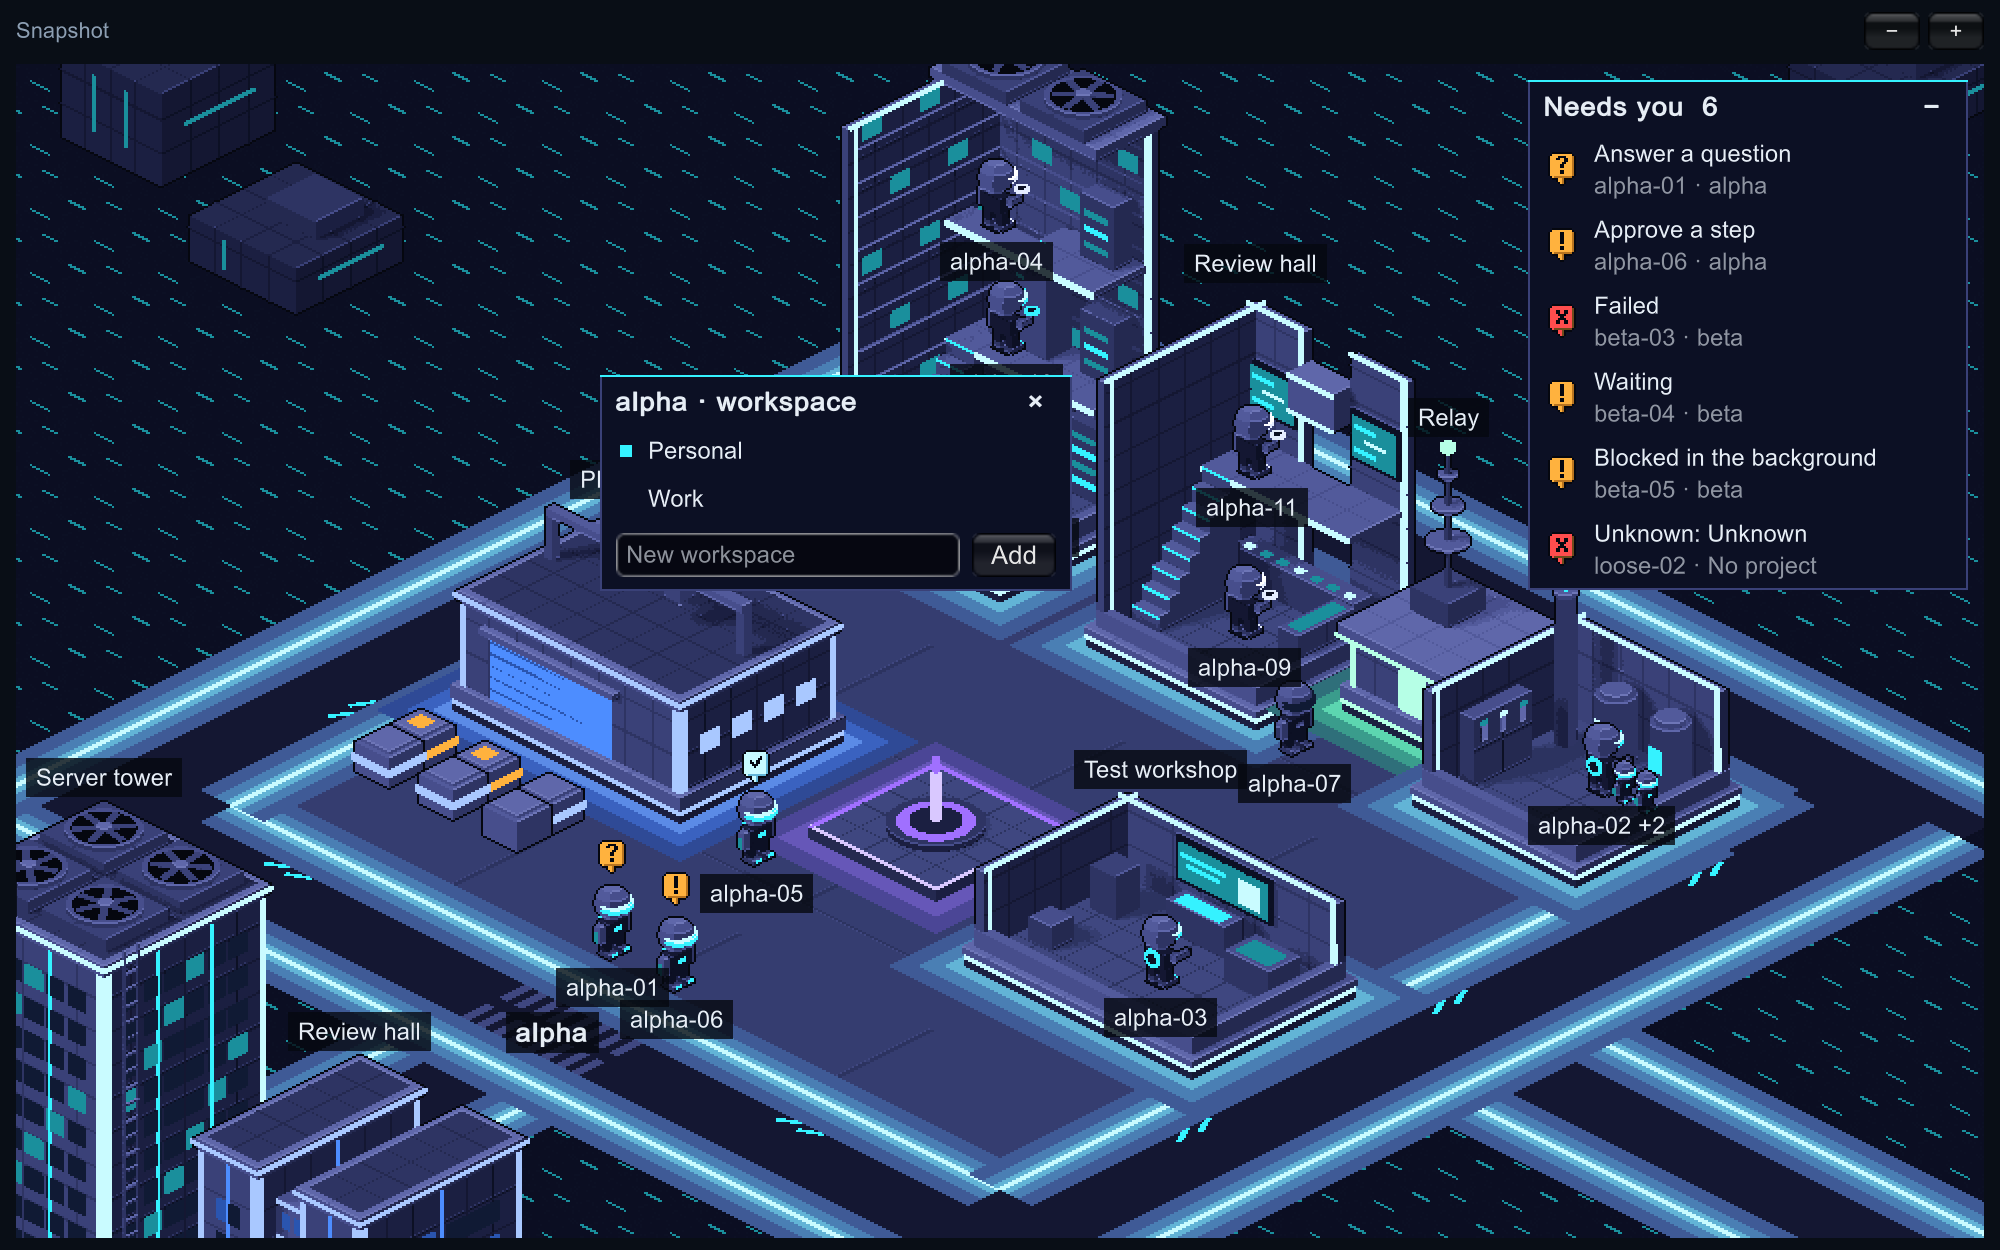
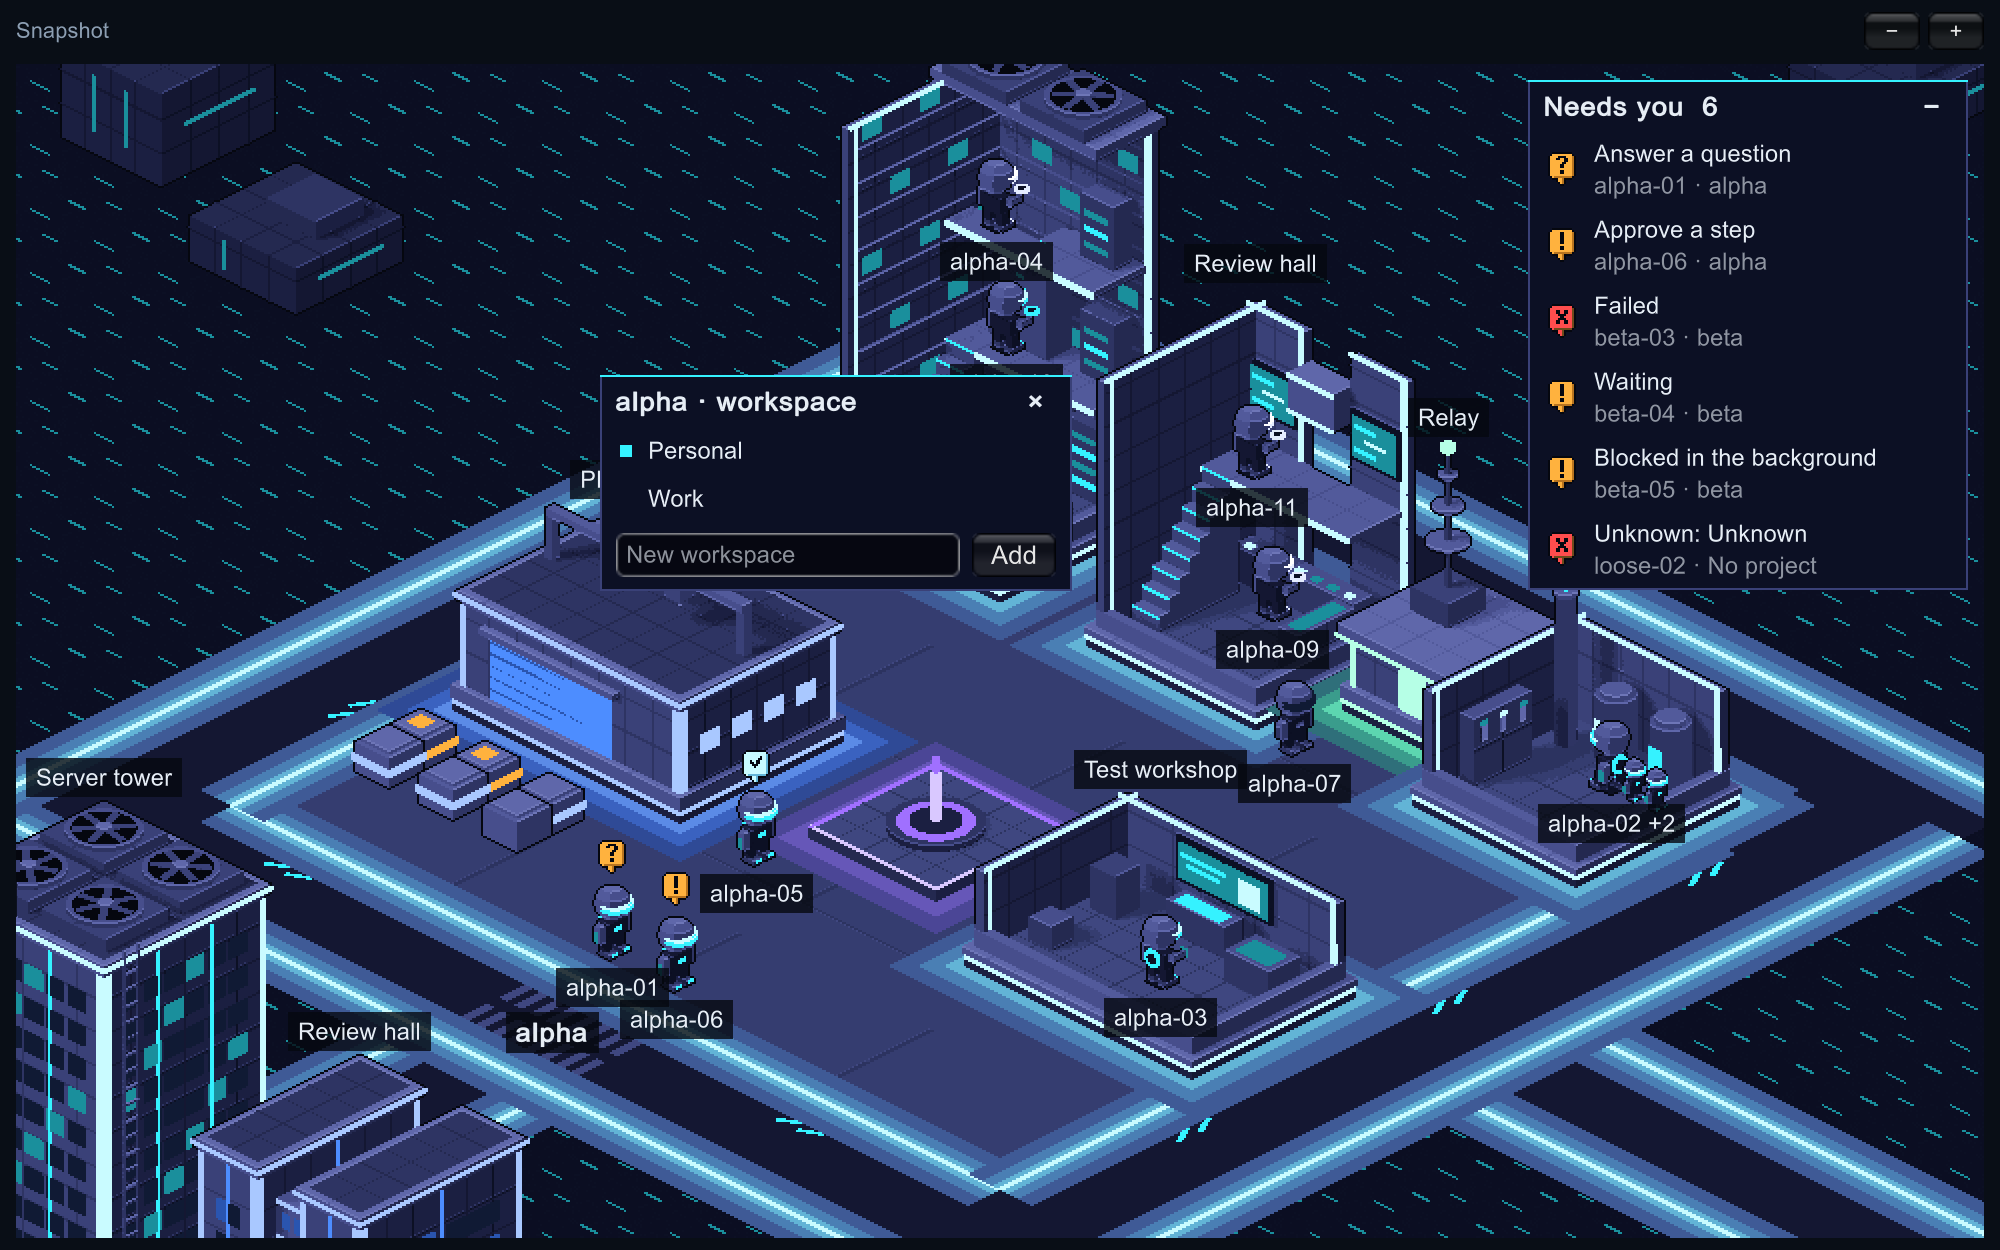
GRID-31: the jobs in the README and the art direction; every picture retaken

Changed region(s): [[0.744, 0.5616, 0.868, 0.6864], [0.589, 0.4368, 0.682, 0.5616]]

diff --git a/README.md b/README.md
@@ -84,7 +84,20 @@ A bot at work goes inside. While anyone works in a building it is drawn opened, 
 
 **The lights of a building someone is working in pulse**: its lines, windows and glow go a step dimmer and back, about once every second and a half. A sector where lights are pulsing has agents at work; one that is still has none. Nothing else on the map moves for it.
 
-![Bots at work inside the server tower, the review hall and the works](docs/art/world-working.png)
+**A bot inside a building does one of the building's jobs**, and after a while the other one its place has:
+
+| Building | Jobs |
+|---|---|
+| Server tower | swaps a drive between two racks; plugs a cable into a rack; holds its disc up to read |
+| Review hall | pushes buttons on the console; reads a screen upstairs; holds its disc up |
+| Works | moves a core from one reactor to the other; pulls a lever on the panel; tends a reactor |
+| Test workshop | types at the terminal; pulls the lever at the bench; pushes buttons; moves a crate |
+
+It moves on the beat the building's lights pulse on, a pose every 0.7 seconds: an arm out and back, up to a lever and down, and a bot that carries takes a step each beat. Nothing moves between beats, so the map is drawn no more often than the pulse already has it drawn. Which job a bot is at follows from the bot and the clock alone: two bots in one building are out of step, and the same moment always looks the same. What a bot carries is lit in the bot's own colour.
+
+![Bots at their jobs in the server tower, the review hall and the works](docs/art/world-working.png)
+
+![The same bots three beats later: other poses, and the one that carries a step further on](docs/art/world-working-later.png)
 
 ![Bots on the stairs: two in the tower changing floors, one coming down in the hall](docs/art/world-stairs.png)
 
@@ -162,7 +175,7 @@ To look at the world without any agent sessions, start the app on a roster snaps
 Builds/TheGrid.app/Contents/MacOS/"The Grid" -snapshot "$PWD/fixtures/world/snapshot.json"
 ```
 
-Add `-shots <folder>` and it saves `far.png` and `near.png` there and quits; `-select <account>|<session id>` selects that bot for `near.png`, and `-messages <pile snapshot file>` (try `fixtures/world/messages.json`) shows its messages arriving and saves `start.png`, `courier.png` and `pulse.png` too. `-pulls <file>` (try `fixtures/world/pulls.json`) puts those pull requests at the depots, since a snapshot never asks GitHub, and `-depot <sector name>` opens that depot's list in `near.png`. `-moved <world file>` lays the map again from that `world.json` after `far.png` and saves `moved.png`: a picture of a map its owner has arranged. `-workspace <sector name>` opens that sector's list of workspaces in `near.png`, and with `-give <workspace>` too the repo is given that workspace and `given.png` shows the map afterwards. `-where <text>` puts that on the selected bot's card as the place its session lives, since a snapshot never asks zellij. `-then <snapshot file>` (try `fixtures/world/later.json`) swaps the snapshot for a later one after `near.png` and saves `stairs.png` with every bot that has somewhere new to go three fifths of its way there. With the editor closed, **The Grid > Render World Pictures** does much the same without a window, into `Logs/`, though without the names and badges:
+Add `-shots <folder>` and it saves `far.png` and `near.png` there and quits; `-select <account>|<session id>` selects that bot for `near.png`, and `-messages <pile snapshot file>` (try `fixtures/world/messages.json`) shows its messages arriving and saves `start.png`, `courier.png` and `pulse.png` too. `-pulls <file>` (try `fixtures/world/pulls.json`) puts those pull requests at the depots, since a snapshot never asks GitHub, and `-depot <sector name>` opens that depot's list in `near.png`. `-moved <world file>` lays the map again from that `world.json` after `far.png` and saves `moved.png`: a picture of a map its owner has arranged. `-workspace <sector name>` opens that sector's list of workspaces in `near.png`, and with `-give <workspace>` too the repo is given that workspace and `given.png` shows the map afterwards. `-where <text>` puts that on the selected bot's card as the place its session lives, since a snapshot never asks zellij. `-then <snapshot file>` (try `fixtures/world/later.json`) swaps the snapshot for a later one after `near.png` and saves `stairs.png` with every bot that has somewhere new to go three fifths of its way there. With the editor closed, **The Grid > Render World Pictures** does much the same without a window, into `Logs/`, though without the names and badges; it also renders the first sector at three beats (`world-jobs-2.png`, `-5`, `-9`), where the bots at work are seen in other poses and places:
 
 ```bash
 /Applications/Unity/Hub/Editor/6000.4.3f1/Unity.app/Contents/MacOS/Unity -batchmode -projectPath "$PWD" -executeMethod TheGrid.EditorTools.GridMenu.WorldPictures -quit

diff --git a/docs/art-direction.md b/docs/art-direction.md
@@ -43,6 +43,7 @@ The Grid is a virtual city where each repository occupies a sector and each codi
 16. **A building is opened while a bot works in it, and its lights pulse.** Opened means what the test workshop always is: the two far walls at full height, the two near ones cut to a kerb, a lit floor, and along the far walls what the building is for (racks; screens and a console of buttons; reactors and a panel of levers). The middle of the floor is the bots'. Each opened building keeps one thing it is told by: the tower two of its fans on a ledge, the hall its bridge, the works its stack. The pulse is the building's own light a step down and back (`Lights.Dimmed`), never another colour. Empty, a building is closed and still.
 17. **A tall building has floors, and a bot takes the stairs.** The server tower has three floors, the review hall two. An upper floor is a floor along the back wall only, reaching two floor squares out from it, the same on every floor, with a line of light along its open edge; the middle of the building stays open from the ground to the roof, so every floor is seen. A stair goes up the left wall to the first floor; in the tower a second goes up along the back wall, from the left, and comes out through the second floor. Bots stand near a floor's open edge, where the floor above does not hide them, and keep to the left of it, clear of the building next along. A bot is drawn on the floor it is on and over its building, on a stair as anywhere. The heights are the art script's (`STOREY`, `REACH` in `buildings.py`) and the game's (`Layout.StoreyPixels`, `Layout.FloorReach`); a test holds them together.
 18. **A message is a courier and its ribbon.** The courier rides from the front of the sender's building to the front of the recipient's and back, down the middle of lanes and roads, and over a plot by its street and its aisle: square corners, through nothing. Behind it stands a ribbon of light as tall as the bike, see-through, in the sender's colour, which stays two minutes and fades in steps. Bike and ribbon are drawn in their true place: behind a building where the road runs behind it. The ribbon is upright slices four pixels wide, so its edges step as everything else does.
+19. **A bot at work does its building's job.** Six poses carry it: an arm out to a button or a socket and drawn back; an arm up to a lever and down with it; a core or a drive carried before it, in two strides. A pose is read from its outline, so what it does must leave the body's outline: what is carried does from every side, a reach does when the bot is seen from the side or the front, and only weakly from behind. Jobs move on the beat of the building's pulse and never between beats. What is carried is lit in the bot's light, in the three marker colours, so it takes the bot's colour.
 
 ## What stays from before
 

diff --git a/tools/art/README.md b/tools/art/README.md
@@ -21,7 +21,7 @@ This rewrites every PNG, `sprites.json` beside them, and `docs/art/contact-sheet
 | `kit.py` | The camera, the palette, the building blocks (`box`, `light`, `disc`, `ball`, `limb`, `glow`), and `render`, which also gives what stands its depth |
 | `ground.py` | Paving, the lane, the void, lines of light, the fountain, city blocks |
 | `buildings.py` | The six buildings, the opened pictures of the three a bot works in (with the floors and stairs of the two tall ones), and the crates that stand at the depot |
-| `bots.py` | Bots in every pose and facing, the courier's bike, badges, the pulse |
+| `bots.py` | Bots in every pose and facing (the six poses of a bot at work among them), the courier's bike, badges, the pulse |
 | `make_sprites.py` | The entry point |
 
 ## How it stays pixel art
@@ -74,4 +74,4 @@ The game stands bots on the floors of an opened tall building and walks them up 
 
 ## Add a pose
 
-In `bots.py`, add the name to `POSES` and handle it in `bot()`, which is modelled facing +x. Every pose is rendered in four facings by turning the model, so say which arm acts with `near`, the side the camera sees, or the pose will be hidden from behind. The tests fail if two pictures of a bot come out the same.
+In `bots.py`, add the name to `POSES` and handle it in `bot()`, which is modelled facing +x. The game asks for poses by name (`Assets/TheGrid/Core/ArtNames.cs`), and a bot at work is given its poses by `Assets/TheGrid/Core/Jobs.cs`: a new pose for a job goes in all three. Every pose is rendered in four facings by turning the model, so say which arm acts with `near`, the side the camera sees, or the pose will be hidden from behind. The tests fail if two pictures of a bot come out the same.
